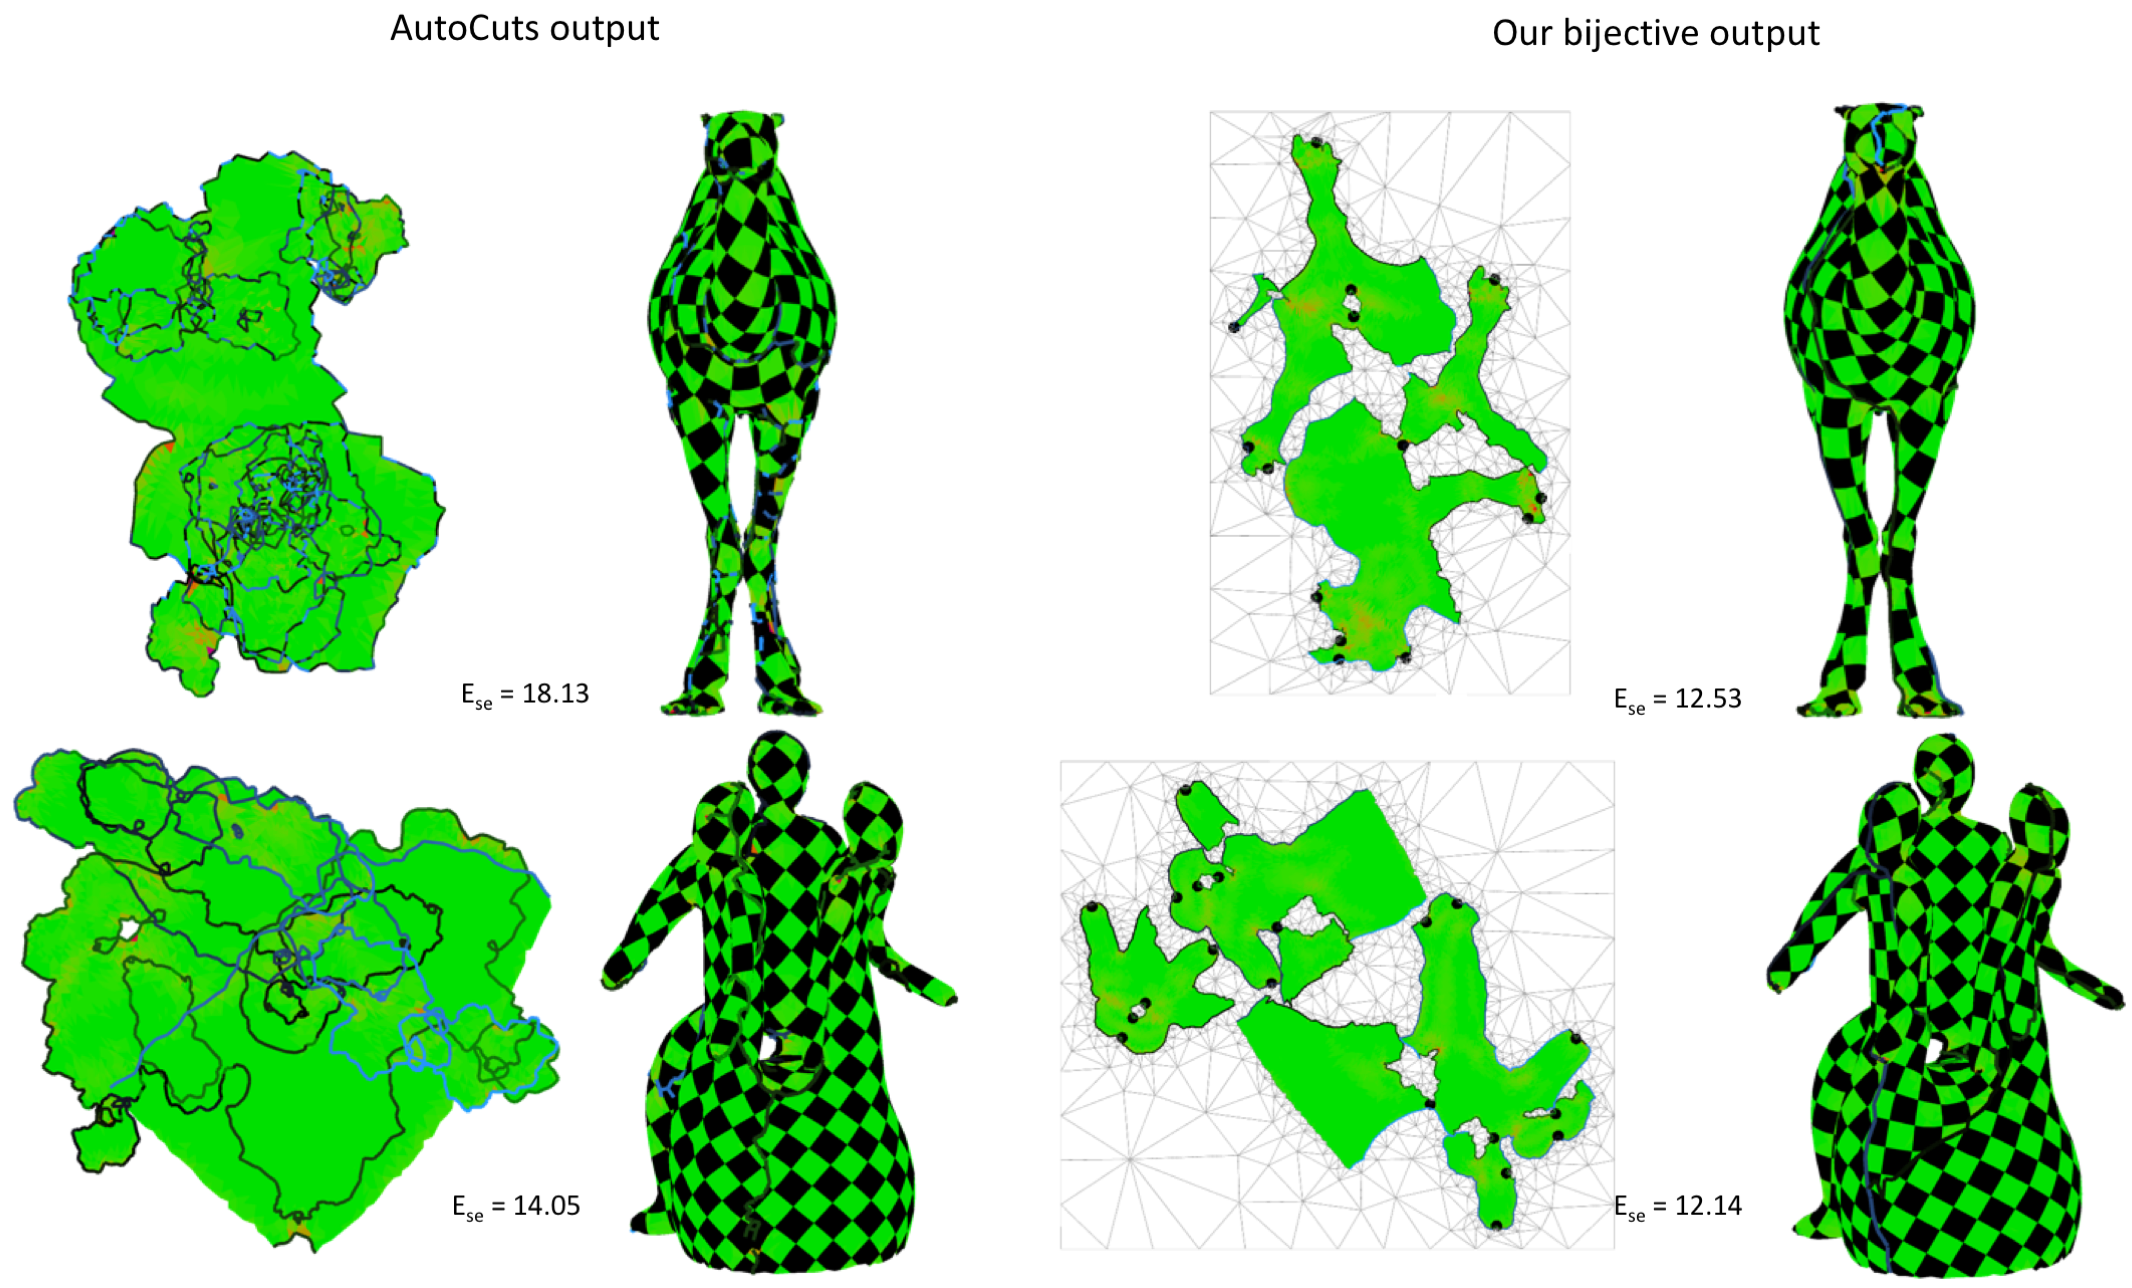
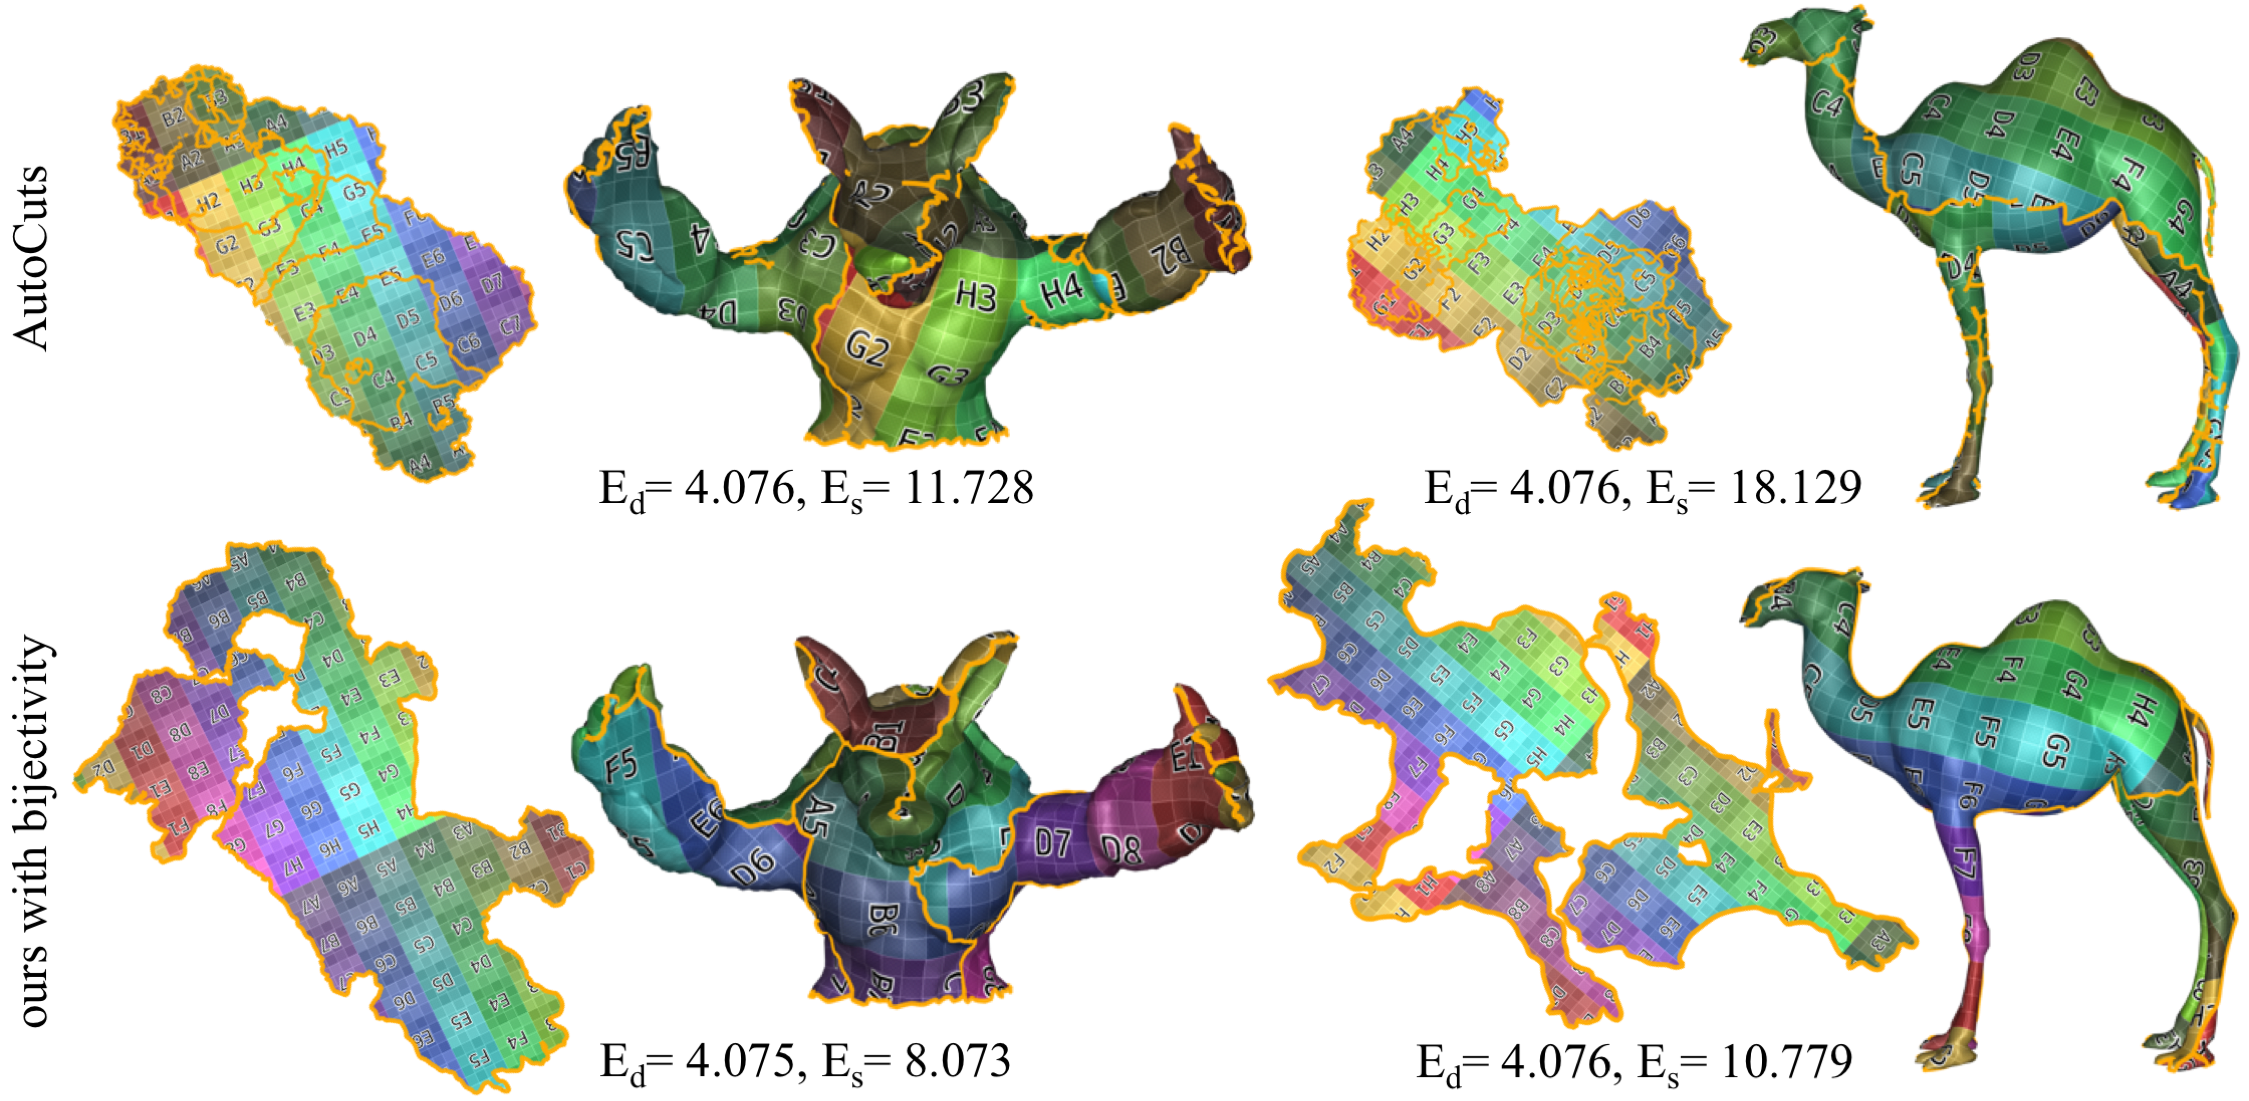
Added figure for 7.1, updated AutoCuts comparison figure, Changed title to Joint Cutting and Parameterization of 3D SurfacesMoved extension to conformal parameterization to future works;

diff --git a/paper/results.tex b/paper/results.tex
@@ -5,31 +5,33 @@
 
 \minchen{Text possibly needed in the description of how we handle global bijectivity:
 When computing $\hat{f}_e$, besides also including the one-ring triangles on the scaffold mesh for computing energy decrease, we also need to move the splitted vertices slightly apart to leave room for inserting new scaffold mesh triangles.}
+\minchen{Add energy plot?}
 
 \subsection{Method Evaluation}
 
-We evaluate our method with/without global bijectivity by running them on 70 input surfaces, including both disk-topology and closed surfaces, some are with \minchen{[TODO] high genus}, setting $b_d$ to $4.2$, $4.1$, and $4.05$ (Figure~\ref{fig:our_impressive_results}).
+We evaluate our method with/without global bijectivity by running them on 70 input surfaces including both disk-topology and closed surfaces (some are with \minchen{[TODO] high genus}), setting $b_d$ to $4.2$, $4.1$, and $4.05$ (Figure~\ref{fig:our_impressive_results}). Our methods automatically generate high quality UV maps given any distortion bounds for all inputs without any user assistance.
 
-\begin{figure}[!h]
+\begin{figure*}[!h]
 \centering
-% \includegraphics[width=\linewidth]{fig/our_impressive_results.png}
-\caption{UV maps generated by our methods with/without bijectivity given $b_d = 4.2, 4.1, 4.05$.}
+\includegraphics[width=0.48\linewidth]{fig/our_impressive_results_left.png}
+\includegraphics[width=0.5\linewidth]{fig/our_impressive_results_right.png}
+\caption{UV maps generated by our methods with/without bijectivity with $b_d$ set to $4.2$, $4.1$, and $4.05$.}
 \label{fig:our_impressive_results}
-\end{figure}
+\end{figure*}
+%could also be bunny_i, statue_5, wooden_fish
 
 \paragraph{Evaluation Metric}
 We are able to directly use the output normalized $E_{SL}$ as the evaluation metric since our method can generate UV maps with locally optimal seams under a certain distortion bound. This metric can be consistent among comparisons against all methods because given an input surface we are always able to compare the output $E_{SL}$ under the same level of distortion. Moreover, it also fits in well with practical scenarios where the control of distortions are more intuitive to the users and as-short-as-possible seams are expected.
 
 \paragraph{Initial Embedding}
-\minchen{[do we want this?]} To show that we search for locally optimal UV maps regardless of the given initial embedding, we run our method starting from our standard initializations, triangle soups, and preliminary UV maps produced by other methods or by users. As demonstrated in Figure~\ref{fig:bad_init_still_ends_well}, all the output UV maps are with high quality.
+\minchen{show several different initial cuts for closed surfaces and high-genus surface} To show that we search for locally optimal UV maps regardless of the given initial embedding, we run our method starting from our standard initializations, triangle soups, and preliminary UV maps produced by other methods or by users. As demonstrated in Figure~\ref{fig:bad_init_still_ends_well}, all the output UV maps are with high quality.
 
 
-\subsection{Comparison}
+\subsection{Comparison to AutoCuts}
 
-We demonstrate the capabilities of our framework by comparing to the state-of-the-art AutoCuts~\cite{Poranne2017Autocuts} and the classic seam-cutting method Seamster~\cite{Sheffer2002Seamster}.
-
-\paragraph{AutoCuts}
-AutoCuts obtains high quality UV maps by involving users into the optimization loop. However, when aiming for convenient, fully-automatic methods, the non-smoothness of their Separation energy not only makes it challenging for global parameter settings, but also often end up the optimization with suboptimal results. To show that we automatically obtain high quality results without suffering these issues, we compare our method with a fully automatic version of AutoCuts obtained under the guidance of AutoCuts authors by constructing appropriate homotopy paths with a uniform set of mesh-adaptive parameters.
+We demonstrate the capabilities of our framework by comparing to the state-of-the-art AutoCuts~\cite{Poranne2017Autocuts}.
+AutoCuts obtains high quality UV maps by involving users into the optimization loop. However, when aiming for convenient, fully-automatic methods, the non-smoothness of their Separation energy not only makes it challenging for global parameter settings, but also often end up the optimization with suboptimal results. To show that we automatically generate high quality UV maps without suffering from these issues, we compare our method with a fully automatic version of AutoCuts obtained under the guidance of AutoCuts authors by constructing appropriate homotopy paths with a uniform set of mesh-adaptive parameters. 
+Specifically, we used $\lambda = 0.4$ and started with $\delta=100\overline{|e|}^2$ and half it in the beginning of each homotopy iteration until it reaches $10^{-4}\overline{|e|}^2$. Inside each homotopy iteration, we use detect convergence by setting a tolerance $\sqrt{3n_t}\times10^{-3}\overline{|e|}$ on the $L^2$ norm of UV coordinate changes. Here $\overline{|e|}$ is the average edge length, $n_t$ is the number of triangles.
 
 Since AutoCuts does not intuitively support generating UV maps with a certain level of distortion, we first run AutoCuts on a batch of input surfaces, and then set their output distortions as $b_d$ in our method for each input. As demonstrated in Table~\ref{tb:comp_AutoCuts}, for both the two versions of our method, we require less time to generate UV maps with same level of distortion but significantly smaller seams. Figure~\ref{fig:ESLBar_compAutoCuts} shows a bar chart comparison on the output $E_{SL}$ of each input surface. Note that we easily enforced bijectivity (Figure~\ref{fig:comp_AutoCuts}), which is only supported in AutoCuts with user assistance on patch manipulation.
 
@@ -50,14 +52,14 @@ ours (NB)               & 5.3065   & 0.8992  & 16.1329  & 148.7    & 3.1    & 65
 \begin{figure}[!h]
 \centering
 \includegraphics[width=\linewidth]{fig/ESLBar_compAutoCuts.png}
-\caption{$E_{SL}$ bar chart of each example generated by AutoCuts and our method with/without bijectivity.}
+\caption{Normalized seam length $E_{SL}$ bar chart of each example generated by AutoCuts and our method with/without bijectivity.}
 \label{fig:ESLBar_compAutoCuts}
 \end{figure}
 
 \begin{figure}[!h]
 \centering
 \includegraphics[width=\linewidth]{fig/comp_AutoCuts.png}
-\caption{Comparison between AutoCuts and our method on the camel and three man statue model.}
+\caption{Comparison between AutoCuts and our method on the armadillo and camel model, from which we can see that with a single set of parameters, AutoCuts may generate sub-optimal results for some inputs.}
 \label{fig:comp_AutoCuts}
 \end{figure}
 % could also be bone_noInput, bunny_i_f10000, bunny, camel_vova_f10000, cat_noUV, cow_param_closed, dilo, horse, male_2, octopus, wooden_fish, foot_i_f10000, gargoyle, rgb_dragon, statue_i_1, vase, venus
@@ -72,15 +74,6 @@ We further run AutoCuts and our methods on 5 input surfaces obtained by progress
 \label{fig:time_res_compAutoCuts}
 \end{figure}
 
-\paragraph{Seamster}
-To compare with Seamster, we first use its output seams on the cow model and the triceraptop model to obtain the UV maps by minimizing $E_{SD}$ with bijectivity constraints, and set the output distortions as upper bounds for our method. Then we run our method on the two input surfaces, starting from our standard initialization, with bijectivity constraints. As demonstrated in Figure~\ref{fig:comp_Seamster}, we generate high quality UV maps with similar seam length. Moreover, unlike in Seamster where users need to tune a set of parameters according to the mesh properties of each given input, we do not need any user assistance.
-
-\begin{figure}[!h]
-\centering
-\includegraphics[width=\linewidth]{fig/comp_Seamster.png}
-\caption{Comparison between Seamster and our method with bijectivity.}
-\label{fig:comp_Seamster}
-\end{figure}
 
 \subsection{Variations}
 
@@ -93,16 +86,14 @@ In texture painting applications, users would really like regions with the same 
 \begin{figure}[!h]
 \centering
 \includegraphics[width=\linewidth]{fig/regional_user.png}
-\caption{Two examples of user controlled regional seam placement. Up to bottom: UV maps generated by the standard version of our method with bijectivity and $b_d = 4.1$, user preference on regional seam placement (blue means seams are less wanted), UV maps generated by the variation of our method supporting the given user preference (with bijectivity and $b_d = 4.1$).}
+\caption{Two examples of user controlled regional seam placement. Up to bottom: UV maps generated by the standard version of our method with bijectivity and $b_d = 4.1$, user preference on regional seam placement (blue means seams are less wanted), UV maps generated by the variation of our method supporting the given user preference (with bijectivity and $b_d = 4.1$). \minchen{local optimization}}
 \label{fig:regional_seam_placement}
 \end{figure}
 
-\paragraph{Conformal Parameterization}
-\minchen{[do we want this?]}
-Using a conformal energy~\cite{Hormann2000MIPS,Sheffer2005ABFPP} for $E_d$ will achieve joint seam placement and conformal parameterization. Figure~\ref{fig:conformal_vs_isometry} shows some results with $E_d = E_{ABForMIPS}$~\cite{} compared to results with $E_d = E_{SD}$, where different seams are generated while our framework stays the same.
+% \paragraph{Conformal Parameterization}
+% Using a conformal energy~\cite{Hormann2000MIPS,Sheffer2005ABFPP} for $E_d$ will achieve joint seam placement and conformal parameterization. Figure~\ref{fig:conformal_vs_isometry} shows some results with $E_d = E_{ABForMIPS}$~\cite{} compared to results with $E_d = E_{SD}$, where different seams are generated while our framework stays the same.
 
 \paragraph{Different Cutting Strategy}
-\minchen{[do we want this?]}
 Geometry Images iteratively finds an extremal point with maximal $L^2$ stretch~\cite{} on the current UV map and make a cut, connecting the extremal point to the current seam with shortest path on the input surface, to reduce distortion on the newly parameterized map. To fairly compare with Geometry Images' cutting strategy, instead of using shape preserving mesh parameterization~\cite{} to always generate a circled UV map, we here change it by minimizing the symmetric Dirichlet energy for parameterization between each cut. Now that our Geometry Images is based on a free-boundary parameterization, the distortion will always decrease after a new cut is introduced, thus we can also set a distortion bound to terminate the algorithm when the bound is reached.
 
 Given the same input surface with our standard UV initialization, we reach identical distortion bounds with shorter seam length (Figure~\ref{fig:comp_GI}). Note that when we asked for more and more isometric UV maps, the quality of the seams by Geometry Images drop drastically while our method keeps generating high-quality seams (See batch comparison statistics in Table~\ref{tb:comp_GI}).
@@ -141,3 +132,13 @@ If we take Geometry Images output as a fast heuristic initial guess, we can use 
 % also could be bimba, bunny
 
 The key is that with all these variations, our framework stays the same, and it efficiently generates optimal seams for the specific problem formulation.
+
+\paragraph{Initial Embeddings}
+To compare with Seamster, we first use its output seams on the cow model and the triceraptop model to obtain the UV maps by minimizing $E_{SD}$ with bijectivity constraints, and set the output distortions as upper bounds for our method. Then we run our method on the two input surfaces, starting from our standard initialization, with bijectivity constraints. As demonstrated in Figure~\ref{fig:comp_Seamster}, we generate high quality UV maps with similar seam length. Moreover, unlike in Seamster where users need to tune a set of parameters according to the mesh properties of each given input, we do not need any user assistance. \minchen{two seamster parameters: size of local region to approximate curvature, seam upper bound} \minchen{move down since it's not fair comparison and add warm start}
+
+\begin{figure}[!h]
+\centering
+\includegraphics[width=\linewidth]{fig/comp_Seamster.png}
+\caption{Comparison between Seamster and our method with bijectivity.}
+\label{fig:comp_Seamster}
+\end{figure}

diff --git a/paper/conclusions.tex b/paper/conclusions.tex
@@ -11,6 +11,7 @@ Our method does not provide globally optimal solutions, the results are still lo
 \item multiple fracture
 \item control seam smoothness
 \item seamless parameterization
+\item conformal parameterization
 \item given a symmetric shape, whether symmetrically triangulated or not, generate symmetric UV map
 \item if slightly modifying the triangulation is allowed, we could also create fractures in the interior of an element and locally remesh the stencil, which makes our method more triangulation and resolution invariance
 \item start with input surface and solve in 3D by reducing the curvature. In this way, the need for locally injective initial embedding in parameterization problems could be eliminated, and the result is only "biased" by its 3D shape, which is the most reasonable bias

diff --git a/paper/OptCuts.tex b/paper/OptCuts.tex
@@ -50,8 +50,7 @@
 % Document starts
 \begin{document}
 % Title portion
-\title{OptCuts: Joint %Optimization for 
-Seam Placement and Parameterization for 3D Surfaces} 
+\title{OptCuts: Joint Cutting and Parameterization of 3D Surfaces} 
 
 \author{Minchen Li}
 % \orcid{1234-5678-9012-3456}
